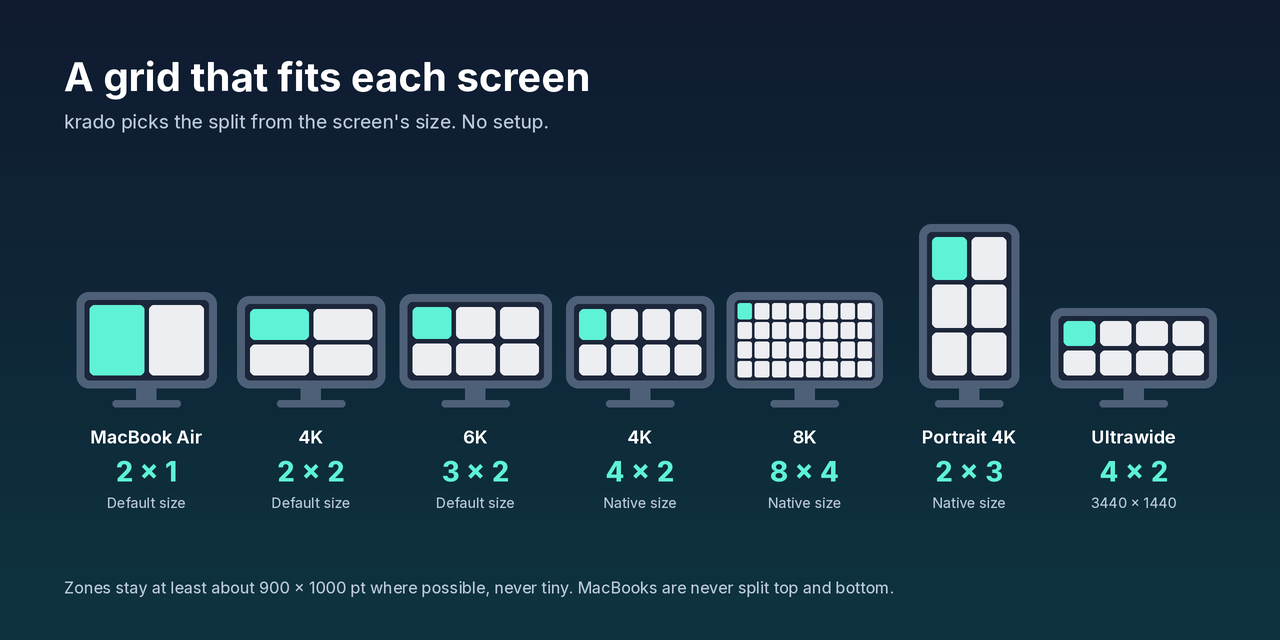
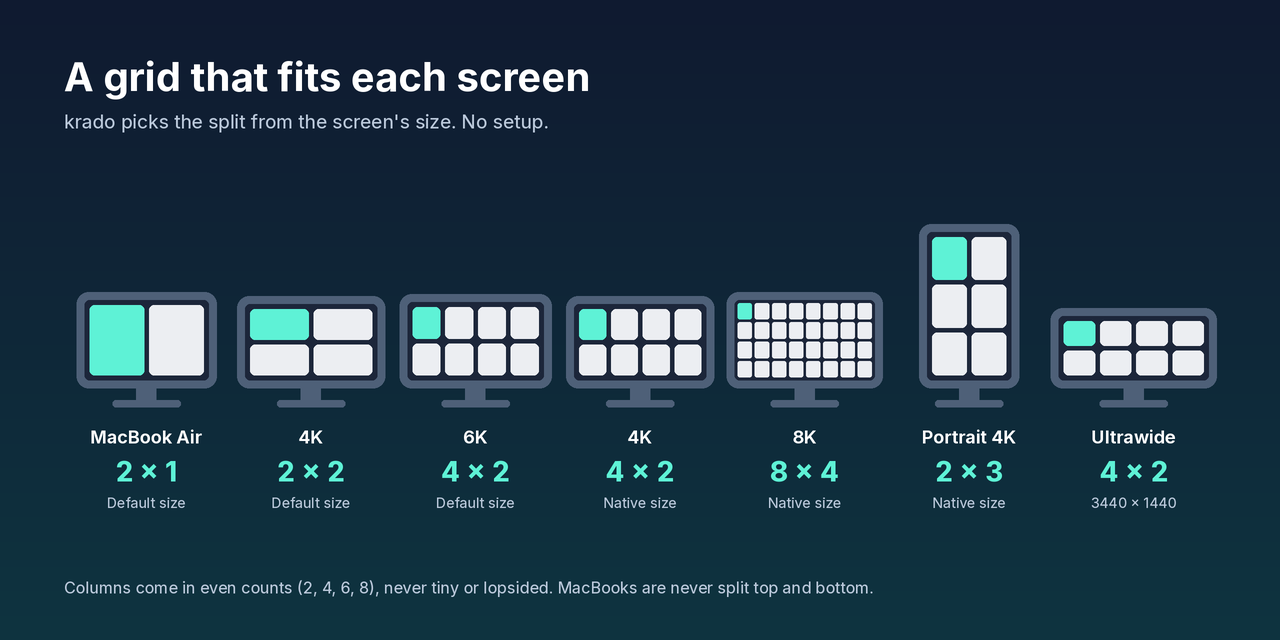
grid: even column counts (2/4/6/8, zones ≥ 720pt) with 100pt menu-bar/Dock allowance; 3008pt-wide displays (BenQ RD280U, Pro Display XDR default) are 4 × 2 again, not 3 × 2; display-table tests; README table + layout art

Changed region(s): [[0.0312, 0.9062, 0.6875, 0.9375], [0.3438, 0.4688, 0.4062, 0.5938], [0.3438, 0.7188, 0.4062, 0.75]]

diff --git a/Tests/KradoCoreTests/GridDisplayTableTests.swift b/Tests/KradoCoreTests/GridDisplayTableTests.swift
@@ -1,0 +1,89 @@
+import CoreGraphics
+import Testing
+@testable import KradoCore
+
+/// Real displays at their "looks like" sizes, with the menu bar (25pt external, 37pt notched built-in)
+/// and with or without a visible bottom Dock (about 70pt). The grid must not change when the Dock shows.
+struct GridDisplayTableTests {
+    struct Display: Sendable, CustomStringConvertible {
+        let name: String
+        let width: CGFloat
+        let height: CGFloat
+        let menuBar: CGFloat
+        let columns: Int
+        let rows: Int
+        var description: String { name }
+    }
+
+    static let displays: [Display] = [
+        Display(name: "MacBook Air 13 default", width: 1470, height: 956, menuBar: 37, columns: 2, rows: 1),
+        Display(name: "MacBook Air 13 larger text", width: 1280, height: 832, menuBar: 37, columns: 2, rows: 1),
+        Display(name: "4K looks like 1920x1080", width: 1920, height: 1080, menuBar: 25, columns: 2, rows: 2),
+        Display(name: "4K looks like 2560x1440", width: 2560, height: 1440, menuBar: 25, columns: 2, rows: 2),
+        Display(name: "4K native", width: 3840, height: 2160, menuBar: 25, columns: 4, rows: 2),
+        Display(name: "5K default", width: 2560, height: 1440, menuBar: 25, columns: 2, rows: 2),
+        Display(name: "5K native", width: 5120, height: 2880, menuBar: 25, columns: 6, rows: 2),
+        Display(name: "Pro Display XDR default", width: 3008, height: 1692, menuBar: 25, columns: 4, rows: 2),
+        Display(name: "BenQ RD280U default", width: 3008, height: 2005, menuBar: 25, columns: 4, rows: 2),
+        Display(name: "BenQ RD280U larger", width: 2256, height: 1504, menuBar: 25, columns: 2, rows: 2),
+        Display(name: "BenQ RD280U 2560", width: 2560, height: 1707, menuBar: 25, columns: 2, rows: 2),
+        Display(name: "Portrait 4K native", width: 2160, height: 3840, menuBar: 25, columns: 2, rows: 3),
+        Display(name: "Portrait 4K default", width: 1080, height: 1920, menuBar: 25, columns: 1, rows: 2),
+        Display(name: "Ultrawide 3440x1440", width: 3440, height: 1440, menuBar: 25, columns: 4, rows: 2),
+        Display(name: "Ultrawide 5120x2160", width: 5120, height: 2160, menuBar: 25, columns: 6, rows: 2),
+        Display(name: "8K native", width: 7680, height: 4320, menuBar: 25, columns: 8, rows: 4),
+    ]
+
+    private func layout(_ w: CGFloat, _ h: CGFloat) -> GridLayout {
+        GridPolicy.layout(for: ScreenDescriptor(isBuiltin: false, visibleSize: CGSize(width: w, height: h), name: ""))
+    }
+
+    @Test("Display table, Dock hidden, shown at the bottom, or shown at the side", arguments: displays)
+    func table(display: Display) {
+        let expected = GridLayout(columns: display.columns, rows: display.rows)
+        let h = display.height - display.menuBar
+        #expect(layout(display.width, h) == expected)            // Dock hidden (autohide)
+        #expect(layout(display.width, h - 70) == expected)       // Dock at the bottom
+        #expect(layout(display.width - 70, h) == expected)       // Dock on the side
+        // No menu bar at all (auto-hidden) keeps the same grid too.
+        #expect(layout(display.width, display.height) == expected)
+    }
+
+    /// v0.1.0 regression: the BenQ RD280U visible frame (3008 × 2005 minus a 25pt menu bar) gave
+    /// floor(3008 / 900) = 3 lopsided columns × 2 rows. It is 4 × 2 again, as before the even-grid change.
+    @Test func benQRD280UIsFourByTwo() {
+        #expect(layout(3008, 1980) == GridLayout(columns: 4, rows: 2))
+        #expect(layout(3008, 1968) == GridLayout(columns: 4, rows: 2))  // 37pt menu bar
+    }
+
+    @Test func columnsAreEvenCounts() {
+        for w in stride(from: CGFloat(400), through: 8000, by: 10) {
+            for h in [CGFloat(800), 1000, 1500, 2100, 3000, 4300] {
+                #expect([1, 2, 4, 6, 8].contains(layout(w, h).columns))
+            }
+        }
+    }
+
+    @Test func columnBoundariesSitAwayFromCommonWidths() {
+        #expect(layout(2779.99, 1600).columns == 2)
+        #expect(layout(2780, 1600).columns == 4)
+        #expect(layout(4219.99, 2200).columns == 4)
+        #expect(layout(4220, 2200).columns == 6)
+        #expect(layout(5659.99, 3000).columns == 6)
+        #expect(layout(5660, 3000).columns == 8)
+    }
+
+    @Test func rowBoundariesIncludeChromeAllowance() {
+        #expect(layout(5000, 2899.99).rows == 2)
+        #expect(layout(5000, 2900).rows == 3)
+        #expect(layout(7680, 3899.99).rows == 3)
+        #expect(layout(7680, 3900).rows == 4)
+    }
+
+    @Test func zonesStayAtLeast640Wide() {
+        for w in stride(from: CGFloat(1200), through: 8000, by: 10) {
+            let l = layout(w, 1500)
+            #expect(w / CGFloat(l.columns) >= 600)
+        }
+    }
+}

diff --git a/Sources/KradoCore/Grid.swift b/Sources/KradoCore/Grid.swift
@@ -32,14 +32,19 @@ public struct ScreenDescriptor: Equatable, Sendable {
     }
 }
 
-/// Zones are as many as fit evenly while each stays comfortably large:
-/// columns = floor(W / 900), rows = floor(H / 1000), never more than 8 × 4.
-/// Any screen at least 1200pt wide gets 2 columns; 2 rows need 900pt height and, in landscape, 1800pt width
-/// (so a MacBook Air is 2 × 1, a 1080p-class screen 2 × 2, 4K at native size 4 × 2, 8K 8 × 4).
+/// Zones are as many as fit evenly while each stays comfortably large.
+/// Columns come in even counts (2, 4, 6, 8; 1 when narrow) so a 3008pt-wide display is 4 × 2, never 3 lopsided columns:
+/// 2 columns from 1200pt wide, then the most of 4 / 6 / 8 whose zones are at least 720pt wide.
+/// Rows = floor(H / 1000), at least 2 once splitting is allowed, never more than 4.
+/// Both counts get a 100pt allowance for the menu bar and Dock, so showing or hiding them never changes the grid.
+/// 2 rows need 900pt height and, in landscape, 1800pt width (MacBooks stay one row); portrait splits from 1200pt.
 /// Ultrawide screens keep 4 columns and add a second row only from 1300pt tall.
 public enum GridPolicy {
-    public static let minimumCellWidth: CGFloat = 900
+    public static let minimumCellWidth: CGFloat = 720
     public static let minimumCellHeight: CGFloat = 1000
+    /// Menu bar (24–37pt) plus a visible Dock (about 70pt) fit inside this, so they never cross a threshold.
+    public static let chromeAllowance: CGFloat = 100
+    public static let columnSteps = [4, 6, 8]
     public static let twoColumnMinimumWidth: CGFloat = 1200
     /// Below this height a top/bottom split would make zones too short (< 450 pt).
     public static let twoRowMinimumHeight: CGFloat = 900
@@ -55,17 +60,19 @@ public enum GridPolicy {
         let width = screen.visibleSize.width
         let height = screen.visibleSize.height
         guard width > 0, height > 0 else { return GridLayout(columns: 1, rows: 1) }
-        let fitColumns = Int((width / minimumCellWidth).rounded(.down))
-        let fitRows = Int((height / minimumCellHeight).rounded(.down))
+        var columns = width >= twoColumnMinimumWidth ? 2 : 1
+        for step in columnSteps where (width + chromeAllowance) / CGFloat(step) >= minimumCellWidth {
+            columns = step
+        }
+        let fitRows = Int(((height + chromeAllowance) / minimumCellHeight).rounded(.down))
         let ultrawide = width / height >= ultrawideMinimumAspectRatio && width >= ultrawideMinimumWidth
-        var columns = width >= twoColumnMinimumWidth ? max(2, fitColumns) : 1
         // Laptop-class landscape screens (narrower than 1800pt) keep one row: halves would be too short to work in.
         let canSplitRows = height > width
             ? height >= portraitSplitMinimumHeight
             : height >= twoRowMinimumHeight && width >= twoRowMinimumWidth
         var rows = canSplitRows ? max(2, fitRows) : 1
         if ultrawide {
-            columns = max(4, fitColumns)
+            columns = max(4, columns)
             rows = height >= ultrawideTwoRowMinimumHeight ? max(2, fitRows) : 1
         }
         return GridLayout(columns: min(columns, maximumColumns), rows: min(rows, maximumRows))

diff --git a/Tests/KradoCoreTests/PolicyAndCoordinatesTests.swift b/Tests/KradoCoreTests/PolicyAndCoordinatesTests.swift
@@ -8,7 +8,7 @@ struct PolicyAndCoordinatesTests {
     @Test("Example display sizes and zone counts", arguments: [
         PolicyCase(width: 3440, height: 1410, columns: 4, rows: 2),
         PolicyCase(width: 2560, height: 1050, columns: 4, rows: 1),
-        PolicyCase(width: 3008, height: 1975, columns: 3, rows: 2),
+        PolicyCase(width: 3008, height: 1975, columns: 4, rows: 2),
         PolicyCase(width: 3840, height: 2135, columns: 4, rows: 2),
         PolicyCase(width: 1920, height: 1055, columns: 2, rows: 2),
         PolicyCase(width: 2560, height: 1415, columns: 2, rows: 2),
@@ -30,9 +30,9 @@ struct PolicyAndCoordinatesTests {
         PolicyCase(width: 800, height: 1200.01, columns: 1, rows: 2),
         PolicyCase(width: 1800, height: 1800, columns: 2, rows: 2),
         PolicyCase(width: 1800, height: 1800.01, columns: 2, rows: 2),
-        PolicyCase(width: 2800, height: 2800, columns: 3, rows: 2),
-        PolicyCase(width: 2800, height: 2800.01, columns: 3, rows: 2),
-        PolicyCase(width: 3000, height: 4000, columns: 3, rows: 4),
+        PolicyCase(width: 2800, height: 2800, columns: 4, rows: 2),
+        PolicyCase(width: 2800, height: 2800.01, columns: 4, rows: 2),
+        PolicyCase(width: 3000, height: 4000, columns: 4, rows: 4),
         // An ultrawide aspect ratio alone is insufficient below 2400pt wide.
         PolicyCase(width: 2399.99, height: 1000, columns: 2, rows: 2),
         PolicyCase(width: 2400, height: 1000, columns: 4, rows: 1),
@@ -52,9 +52,9 @@ struct PolicyAndCoordinatesTests {
         PolicyCase(width: 3000, height: 1300.01, columns: 4, rows: 2),
         PolicyCase(width: 2800, height: 1000, columns: 4, rows: 1),
         // General width boundaries, with non-ultrawide sizes.
-        PolicyCase(width: 2799.99, height: 1600, columns: 3, rows: 2),
-        PolicyCase(width: 2800, height: 1600, columns: 3, rows: 2),
-        PolicyCase(width: 2800.01, height: 1600, columns: 3, rows: 2),
+        PolicyCase(width: 2799.99, height: 1600, columns: 4, rows: 2),
+        PolicyCase(width: 2800, height: 1600, columns: 4, rows: 2),
+        PolicyCase(width: 2800.01, height: 1600, columns: 4, rows: 2),
         PolicyCase(width: 1799.99, height: 1000, columns: 2, rows: 1),
         PolicyCase(width: 1800, height: 1000, columns: 2, rows: 2),
         PolicyCase(width: 1800.01, height: 1000, columns: 2, rows: 2),

diff --git a/Tests/KradoCoreTests/GridPhilosophyTests.swift b/Tests/KradoCoreTests/GridPhilosophyTests.swift
@@ -21,14 +21,14 @@ struct GridPhilosophyTests {
     }
 
     @Test func largerScreensGetMoreEvenZones() {
-        #expect(layout(3008, 1667) == GridLayout(columns: 3, rows: 2))  // Pro Display XDR default
-        #expect(layout(5120, 2855) == GridLayout(columns: 5, rows: 2))  // 5K native
-        #expect(layout(6016, 3359) == GridLayout(columns: 6, rows: 3))  // 6K native
+        #expect(layout(3008, 1667) == GridLayout(columns: 4, rows: 2))  // Pro Display XDR default
+        #expect(layout(5120, 2855) == GridLayout(columns: 6, rows: 2))  // 5K native
+        #expect(layout(6016, 3359) == GridLayout(columns: 8, rows: 3))  // 6K native
         #expect(layout(7680, 4295) == GridLayout(columns: 8, rows: 4))  // 8K native
         #expect(layout(1080, 1890) == GridLayout(columns: 1, rows: 2))  // portrait 4K default
         #expect(layout(2160, 3810) == GridLayout(columns: 2, rows: 3))  // portrait 4K native
         #expect(layout(3440, 1410) == GridLayout(columns: 4, rows: 2))  // ultrawide
-        #expect(layout(5120, 1410) == GridLayout(columns: 5, rows: 2))  // super ultrawide
+        #expect(layout(5120, 1410) == GridLayout(columns: 6, rows: 2))  // super ultrawide
     }
 
     @Test func zonesAreNeverTooSmall() {

diff --git a/scripts/readme-art/layouts.py b/scripts/readme-art/layouts.py
@@ -11,11 +11,11 @@ def F(p,s,w=None):
     return f
 TEXT={
  "en":dict(title="A grid that fits each screen", sub="krado picks the split from the screen's size. No setup.",
-   items=[("MacBook Air","2 × 1","Default size"),("4K","2 × 2","Default size"),("6K","3 × 2","Default size"),
+   items=[("MacBook Air","2 × 1","Default size"),("4K","2 × 2","Default size"),("6K","4 × 2","Default size"),
           ("4K","4 × 2","Native size"),("8K","8 × 4","Native size"),("Portrait 4K","2 × 3","Native size"),("Ultrawide","4 × 2","3440 × 1440")],
-   foot="Zones stay at least about 900 × 1000 pt where possible, never tiny. MacBooks are never split top and bottom.", font=(INTER,INTER)),
+   foot="Columns come in even counts (2, 4, 6, 8), never tiny or lopsided. MacBooks are never split top and bottom.", font=(INTER,INTER)),
  "ja":dict(title="画面に合わせたマス目", sub="画面の大きさから分け方を自動で決めます。設定は不要です。",
-   items=[("MacBook Air","2 × 1","標準の大きさ"),("4K","2 × 2","標準の大きさ"),("6K","3 × 2","標準の大きさ"),
+   items=[("MacBook Air","2 × 1","標準の大きさ"),("4K","2 × 2","標準の大きさ"),("6K","4 × 2","標準の大きさ"),
           ("4K","4 × 2","等倍"),("8K","8 × 4","等倍"),("縦置き 4K","2 × 3","等倍"),("ウルトラワイド","4 × 2","3440 × 1440")],
    foot="画面が大きいほど均等に細かく分けますが、マスが小さくなりすぎることはありません。MacBook は上下に分けません。", font=(CJKB,CJK)),
 }
@@ -27,7 +27,7 @@ for lang,t in TEXT.items():
     bold,reg=t["font"]
     d.text((64*S,52*S),t["title"],font=F(bold,40,700),fill=(255,255,255))
     d.text((64*S,110*S),t["sub"],font=F(reg,19,450),fill=(186,200,218))
-    specs=[(2,1,(124,80)),(2,2,(132,76)),(3,2,(136,78)),(4,2,(132,76)),(8,4,(140,80)),(2,3,(84,148)),(4,2,(150,64))]
+    specs=[(2,1,(124,80)),(2,2,(132,76)),(4,2,(136,78)),(4,2,(132,76)),(8,4,(140,80)),(2,3,(84,148)),(4,2,(150,64))]
     slot=(W-128)/7; base=380
     for i,((c,r,(sw,sh)),(name,grid,ex)) in enumerate(zip(specs,t["items"])):
         cx=64+slot*i+slot/2

diff --git a/README.ja.md b/README.ja.md
@@ -20,7 +20,7 @@ Microsoft PowerToys の FancyZones に着想を得ています。krado はマス
 | --- | --- | --- |
 | MacBook | <strong>2 × 1</strong> | 標準の大きさで使っている MacBook Air / Pro の画面 |
 | 一般的なモニター | <strong>2 × 2</strong> | 1920 × 1080、2560 × 1440、標準の大きさで使う 4K・5K |
-| 大きい画面 | <strong>3 × 2</strong>〜<strong>8 × 4</strong> | 等倍で使う高解像度ディスプレイ：4K → 4 × 2、6K → 6 × 3、8K → 8 × 4 |
+| 大きい画面 | <strong>4 × 2</strong>〜<strong>8 × 4</strong> | 大きい画面や高解像度ディスプレイ：標準の大きさの 6K・28インチ 3:2 → 4 × 2、等倍の 4K → 4 × 2、8K → 8 × 4 |
 | とても小さい | <strong>1 × 1</strong> | 幅の狭い画面や低解像度の画面 |
 | 縦置き | <strong>1 × 2</strong> 以上 | 縦向きにしたモニター（高さが足りない縦置きは 1 × 1） |
 | ウルトラワイド | <strong>4 × 1</strong> 以上 | とても横長のモニター。高さが十分なら2段 |

diff --git a/README.md b/README.md
@@ -20,7 +20,7 @@ krado chooses the split from the screen's size, as set in **System Settings → 
 | --- | --- | --- |
 | MacBook | **2 × 1** | MacBook Air / Pro screens at their default size |
 | Typical monitor | **2 × 2** | 1920 × 1080, 2560 × 1440, or a 4K/5K display at its default size |
-| Large | **3 × 2** to **8 × 4** | High-resolution displays at native size: 4K → 4 × 2, 6K → 6 × 3, 8K → 8 × 4 |
+| Large | **4 × 2** to **8 × 4** | Large or high-resolution displays: 6K or a 28" 3:2 display at default size → 4 × 2, 4K at native size → 4 × 2, 8K → 8 × 4 |
 | Very small | **1 × 1** | Narrow or low-resolution screens |
 | Portrait | **1 × 2** or more | A monitor turned vertical (short portrait screens stay 1 × 1) |
 | Ultrawide | **4 × 1** or more | Very wide monitors, with two rows when tall enough |

diff --git a/CHANGELOG.ja.md b/CHANGELOG.ja.md
@@ -10,6 +10,10 @@ krado の主な変更を記録します。
 
 ## [Unreleased]
 
+### Fixed
+
+- マス目の列を偶数（2・4・6・8 列。狭い画面は1列）にそろえ、1マスの幅は約 720 pt 以上にしました。28インチ 3:2 モニター（BenQ RD280U）や標準の大きさの Pro Display XDR など、幅 3008 pt の画面は、偏った3列 × 2段ではなく、以前と同じ 4 × 2 になります。メニューバーと Dock の分として 100 pt の余裕を持たせたので、出し入れしてもマス目は変わりません。等倍の 5K と幅 5120 のウルトラワイドは 6 × 2、等倍の 6K は 8 × 3 になります。
+
 ## [0.1.0] - 2026-10-20
 
 ### 追加

diff --git a/CHANGELOG.md b/CHANGELOG.md
@@ -8,6 +8,10 @@ and this project follows [Semantic Versioning](https://semver.org/spec/v2.0.0.ht
 
 ## [Unreleased]
 
+### Fixed
+
+- Grid columns now come in even counts (2, 4, 6 or 8, or 1 on narrow screens; each zone at least about 720 pt wide), so 3008 pt-wide displays such as a 28" 3:2 monitor (BenQ RD280U) or a Pro Display XDR at default size get 4 × 2 again instead of 3 lopsided columns × 2. Rows and columns include a 100 pt allowance for the menu bar and Dock, so showing or hiding them never changes the grid. 5K and 5120-wide ultrawide at native size become 6 × 2 and 6K native 8 × 3.
+
 ## [0.1.0] - 2026-10-20
 
 ### Added
